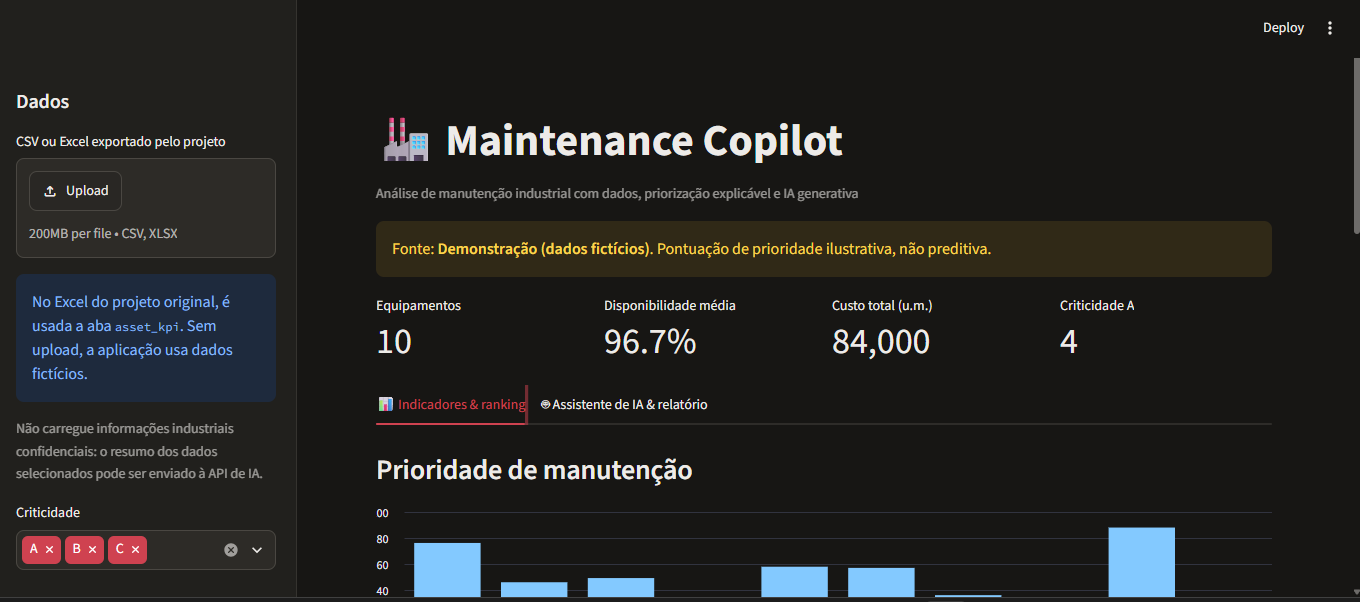
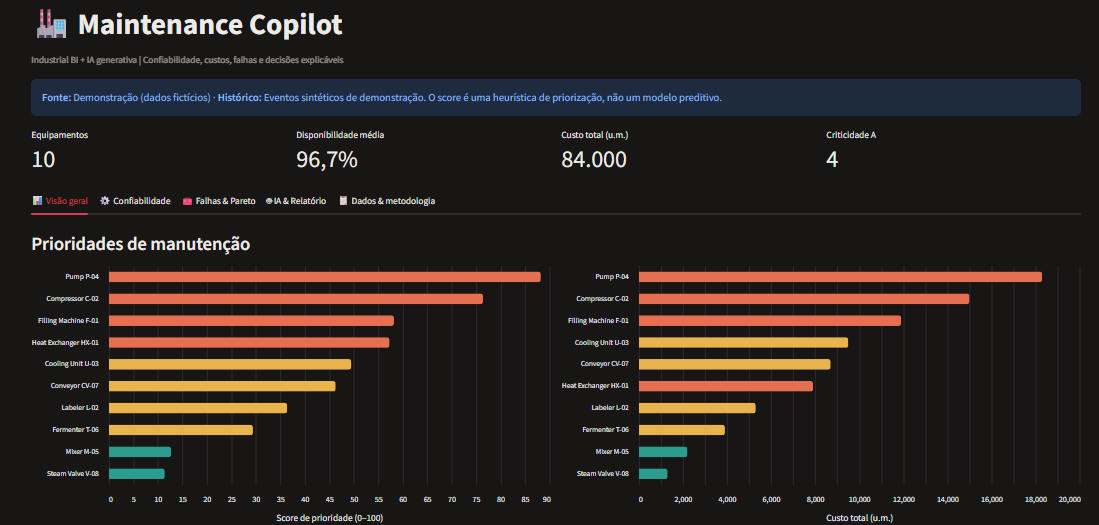
Improve documentation and showcase multi-agent AI

diff --git a/README.md b/README.md
@@ -1,89 +1,222 @@
+
 # AI Maintenance Copilot
 
-**Industrial analytics meets generative AI.** A Streamlit decision-support prototype that turns maintenance indicators and event histories into asset-priority dashboards, grounded explanations, and PDF reports.
+**Industrial Analytics Meets Generative AI**
 
-![Maintenance Copilot dashboard running locally](assets/dashboard-overview.png)
+A Python-based decision-support application combining industrial maintenance analytics, reliability indicators, and generative AI to support equipment prioritization and explainable maintenance decisions.
 
-*Real screenshot from an earlier local dashboard iteration, using synthetic data. The latest interface may differ.*
+Built with **Python, Streamlit, Pandas, Gemini API, Function Calling, and Multi-Agent Orchestration**.
 
-## What problem does it solve?
+![Maintenance Dashboard](assets/dashboard-overview.png)
 
-Maintenance teams need to make sense of reliability, downtime, costs, and corrective interventions across multiple assets. This prototype brings those indicators together and lets a user ask **which equipment deserves attention—and why**.
+## Overview
 
-## What it does
+Industrial maintenance teams must analyze equipment availability, failure histories, maintenance costs, and reliability indicators to determine which assets require attention.
 
-- **Industrial BI:** availability, MTBF, MTTR, maintenance cost, criticality, and asset prioritization.
-- **Historical analysis:** corrective vs. preventive events and recorded failure-family patterns.
-- **AI explanations:** ask questions about the loaded dataset through Gemini.
-- **Three analysis modes:** direct LLM, tool-calling agent, or sequential two-agent orchestration.
-- **Auditable answers:** read-only Python tools, evidence handoff, and execution trace.
-- **Reporting:** export a PDF summary based on the analysis.
-- **Import your own data:** supported CSV/Excel formats, with input validation.
+AI Maintenance Copilot combines these indicators into an interactive dashboard and allows users to investigate maintenance priorities using generative AI.
 
-## Architecture
+The application uses synthetic datasets for demonstration purposes.
+
+## Key Features
+
+### 1. Industrial Analytics Dashboard
+
+- Equipment availability and criticality
+- Mean Time Between Failures (MTBF)
+- Mean Time To Repair (MTTR)
+- Maintenance costs and prioritization
+- Corrective versus preventive interventions
+- Failure analysis and Pareto charts
+- CSV/Excel data import
+
+### 2. AI-Powered Maintenance Analysis
+
+Users can ask questions about equipment performance, reliability, and maintenance priorities.
+
+The application supports three analysis modes:
+
+| Mode | Description |
+|---|---|
+| Direct LLM | Gemini analyzes structured maintenance information. |
+| Tool-Calling Agent | Gemini invokes read-only Python tools to retrieve maintenance evidence. |
+| Multi-Agent Orchestration | Two specialized Gemini roles collaborate through a Python coordinator. |
+
+### 3. Multi-Agent Architecture
+
+The advanced workflow separates responsibilities between two specialized AI roles and a deterministic Python coordinator.
+
+**Agent 1 — Maintenance Analyst**
+
+- Interprets the user's question.
+- Calls Python tools to retrieve equipment information.
+- Examines reliability indicators and maintenance priorities.
+- Produces an initial evidence-based analysis.
+
+**Python Coordinator**
+
+- Collects the Analyst's findings.
+- Organizes structured evidence.
+- Transfers the information to the second agent.
+- Maintains an auditable execution trace.
+
+**Agent 2 — Maintenance Consultant**
+
+- Reviews the Analyst's findings.
+- Interprets maintenance risks and trade-offs.
+- Produces actionable recommendations.
+- Identifies uncertainties requiring human verification.
 
 ```mermaid
 flowchart TD
-    A[Maintenance CSV / Excel] --> B[Python + Pandas validation & KPIs]
-    B --> C[Streamlit dashboard]
-    C --> D[Gemini Analyst]
-    D <-->|Read-only function calling| E[Python analysis tools]
-    D --> F[Python coordinator + evidence handoff]
-    F --> G[Gemini Consultant]
-    G --> H[Answer, audit trace & PDF report]
+    A[Maintenance CSV / Excel] --> B[Python + Pandas]
+    B --> C[Maintenance KPIs and Analytics]
+    C --> D[Streamlit Interface]
+    D --> E[Gemini Maintenance Analyst]
+    E <-->|Function Calling| F[Read-Only Python Tools]
+    E --> G[Python Coordinator]
+    G --> H[Structured Evidence Handoff]
+    H --> I[Gemini Maintenance Consultant]
+    I --> J[Recommendations and Execution Trace]
 ```
 
-The multi-agent option uses **two separate Gemini roles** coordinated sequentially by Python. It is *not* autonomous industrial decision-making, a multi-provider system, or dynamic agent delegation. The recommendations are for human review.
+The multi-agent workflow is sequential. It does not implement autonomous equipment control, dynamic delegation, or independent industrial decision-making.
 
-## Evidence and testing
+## Application Screenshots
 
-- **28 automated tests passed** in the V6.2 build environment.
-- A local multi-agent demonstration was exercised using an **alternative synthetic dataset with 14 assets and intervention histories**.
-- The application displays actual tool calls and the separation between Analyst, Python coordinator, and Consultant.
-- An example PDF was generated from synthetic test data and inspected for readability.
+### Maintenance Dashboard
 
-**Important:** these are software and demonstration checks—not proof of predictive accuracy, real-world savings, or validated maintenance diagnoses.
+Interactive visualization of equipment availability, costs, reliability indicators, and maintenance priorities.
 
-### Example report
+![Dashboard Overview](assets/dashboard-overview.png)
 
-<img src="assets/report-preview.png" alt="Example PDF report with synthetic test data" width="420">
+### Multi-Agent AI Analysis
 
-*Sample report generated using synthetic data and illustrative analysis; not a screenshot of a live Gemini response.*
+Real application demonstration showing Gemini-based maintenance analysis, Python tool execution, and the multi-agent workflow.
 
-## Run locally
+![Multi-Agent Analysis](assets/maintenance-ai-tab.png)
 
-Requires Python 3.11+.
+## Project Evolution
+
+The project was developed incrementally to demonstrate the integration of industrial analytics and generative AI.
+
+| Stage | Implementation |
+|---|---|
+| V1 — Industrial BI | Maintenance KPIs, equipment ranking, and dashboard |
+| V2 — Generative AI | Gemini integration for maintenance questions |
+| V3 — Tool Calling | Gemini connected to read-only Python analysis tools |
+| V4 — Multi-Agent | Specialized Analyst and Consultant roles coordinated by Python |
+
+This progression illustrates the transition from a conventional analytics application to an AI-assisted decision-support system.
+
+## Example Use Case
+
+**User question:**
+
+> Which equipment should be prioritized considering maintenance costs, MTBF, MTTR, and failure history?
+
+**Application workflow:**
+
+1. Analyze the maintenance indicators.
+2. Retrieve relevant equipment data using Python tools.
+3. Compare maintenance priorities and reliability indicators.
+4. Transfer structured evidence between the AI roles.
+5. Generate recommendations and identify uncertainties.
+
+Recommendations are based on the available dataset and require human technical validation.
+
+## Technology Stack
+
+| Technology | Application |
+|---|---|
+| Python | Application logic and data processing |
+| Streamlit | Interactive web application |
+| Pandas | Maintenance data analysis |
+| Gemini API | Generative AI integration |
+| Function Calling | LLM access to Python analysis tools |
+| Multi-Agent Orchestration | Sequential coordination of specialized AI roles |
+| ReportLab | PDF report generation |
+| Pytest | Automated software testing |
+
+## Installation
+
+**Requirements:** Python 3.11+ and a Gemini API key for AI functionality.
+
+Clone the repository:
+
+```bash
+git clone https://github.com/ioglas-af/ai-maintenance.git
+cd ai-maintenance
+```
+
+Create a virtual environment:
 
 ```powershell
 python -m venv .venv
 .\.venv\Scripts\Activate.ps1
+```
+
+Install dependencies:
+
+```powershell
 python -m pip install -r requirements.txt
+```
+
+Create the file `.streamlit/secrets.toml`:
+
+```toml
+GEMINI_API_KEY = "YOUR_GEMINI_API_KEY"
+```
+
+Never commit your real API key.
+
+Start the application:
+
+```powershell
 python -m streamlit run app.py
 ```
 
-Open **http://localhost:8501**. The demo dashboard works without a Gemini key. To enable AI analysis, create `.streamlit/secrets.toml`:
+Open:
 
-```toml
-GEMINI_API_KEY = "YOUR_OWN_GEMINI_KEY"
-```
+http://localhost:8501
 
-The selected Gemini model must be enabled for your Google project. **Never commit the real key**; the repository includes a `.gitignore` and a safe example configuration.
+The analytics dashboard can run without Gemini. AI analysis requires a valid API key, an accessible model, and available API quota.
 
-For a demonstration, use the sample datasets in `data/`. To run the offline tests:
+## Testing and Validation
+
+The V6.2 build passed **28 automated tests** in its development environment.
+
+Testing covered:
+
+- Maintenance analytics and data validation
+- Python tool execution
+- Multi-agent coordination
+- Structured evidence transfer
+- Application behavior
+
+The application was also exercised with synthetic maintenance datasets, including a scenario with 14 assets and intervention histories.
+
+These results demonstrate software functionality, not predictive accuracy or validated industrial maintenance outcomes.
+
+To run the automated tests:
 
 ```powershell
 python -m pytest -q
 ```
 
-## Technology
-
-**Python · Streamlit · Pandas · Gemini API · Function Calling · Sequential Multi-Agent Orchestration · PDF Reporting · Pytest**
-
 ## Limitations
 
-This is a **portfolio prototype** using synthetic data. Its priority score is a transparent heuristic, **not predictive maintenance**. MTBF and MTTR are imported metrics; historical failure categories do not establish root causes or prove that particular physical components exist. Currency is generic. Gemini outputs require human verification. When an AI mode is selected, some user-provided data may be transmitted to Google's API—use only authorized data.
+- Demonstration datasets are synthetic.
+- Equipment prioritization uses a heuristic score, not a predictive maintenance model.
+- MTBF and MTTR are imported indicators.
+- AI-generated recommendations require human verification.
+- The system does not perform autonomous maintenance interventions.
+- The application is a portfolio prototype, not a production industrial system.
+- Gemini availability and API quotas depend on Google's service.
 
----
+## Author
 
-**Author:** Ioglas Alves da Fonseca  
-**Related work:** [Industrial Maintenance Analytics](https://github.com/ioglas-af/industrial-maintenance)
+**Ioglas Alves da Fonseca**
+
+Electrical Engineering | Industrial Systems | Automation | Applied AI
+
+**Related Project:** [Industrial Maintenance Analytics](https://github.com/ioglas-af/industrial-maintenance)
